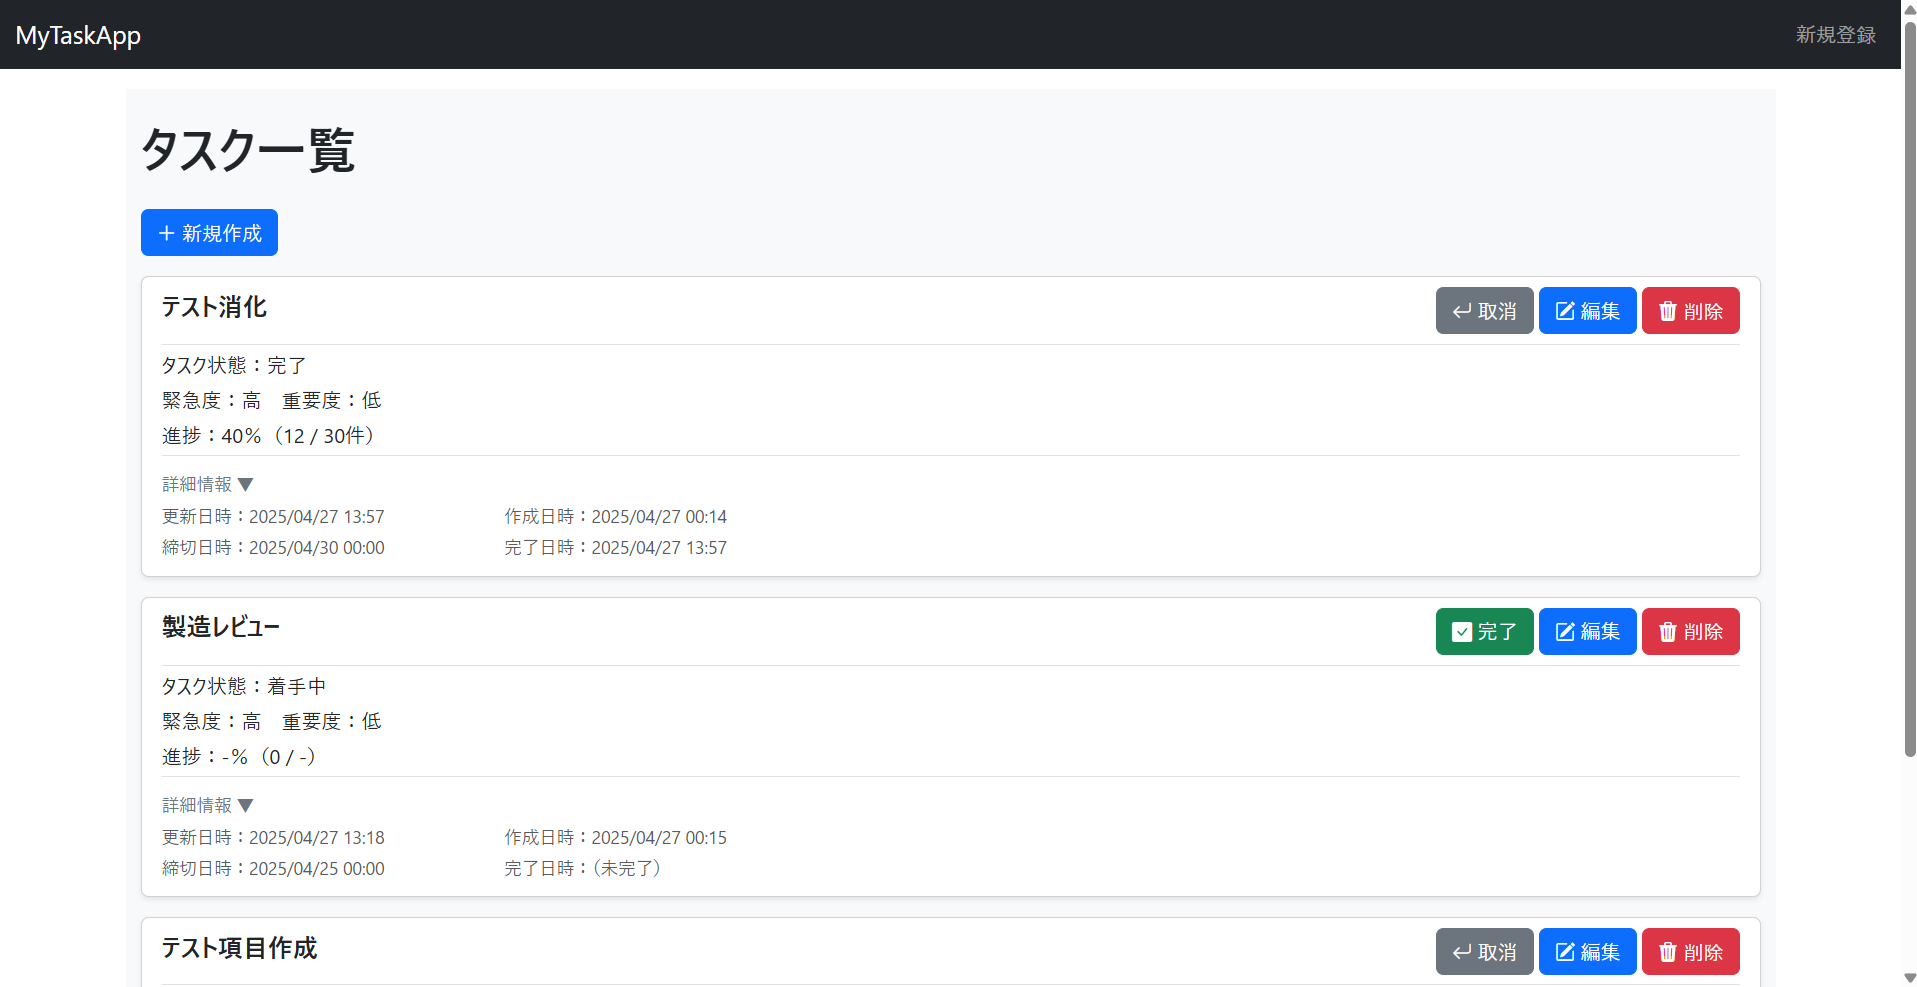
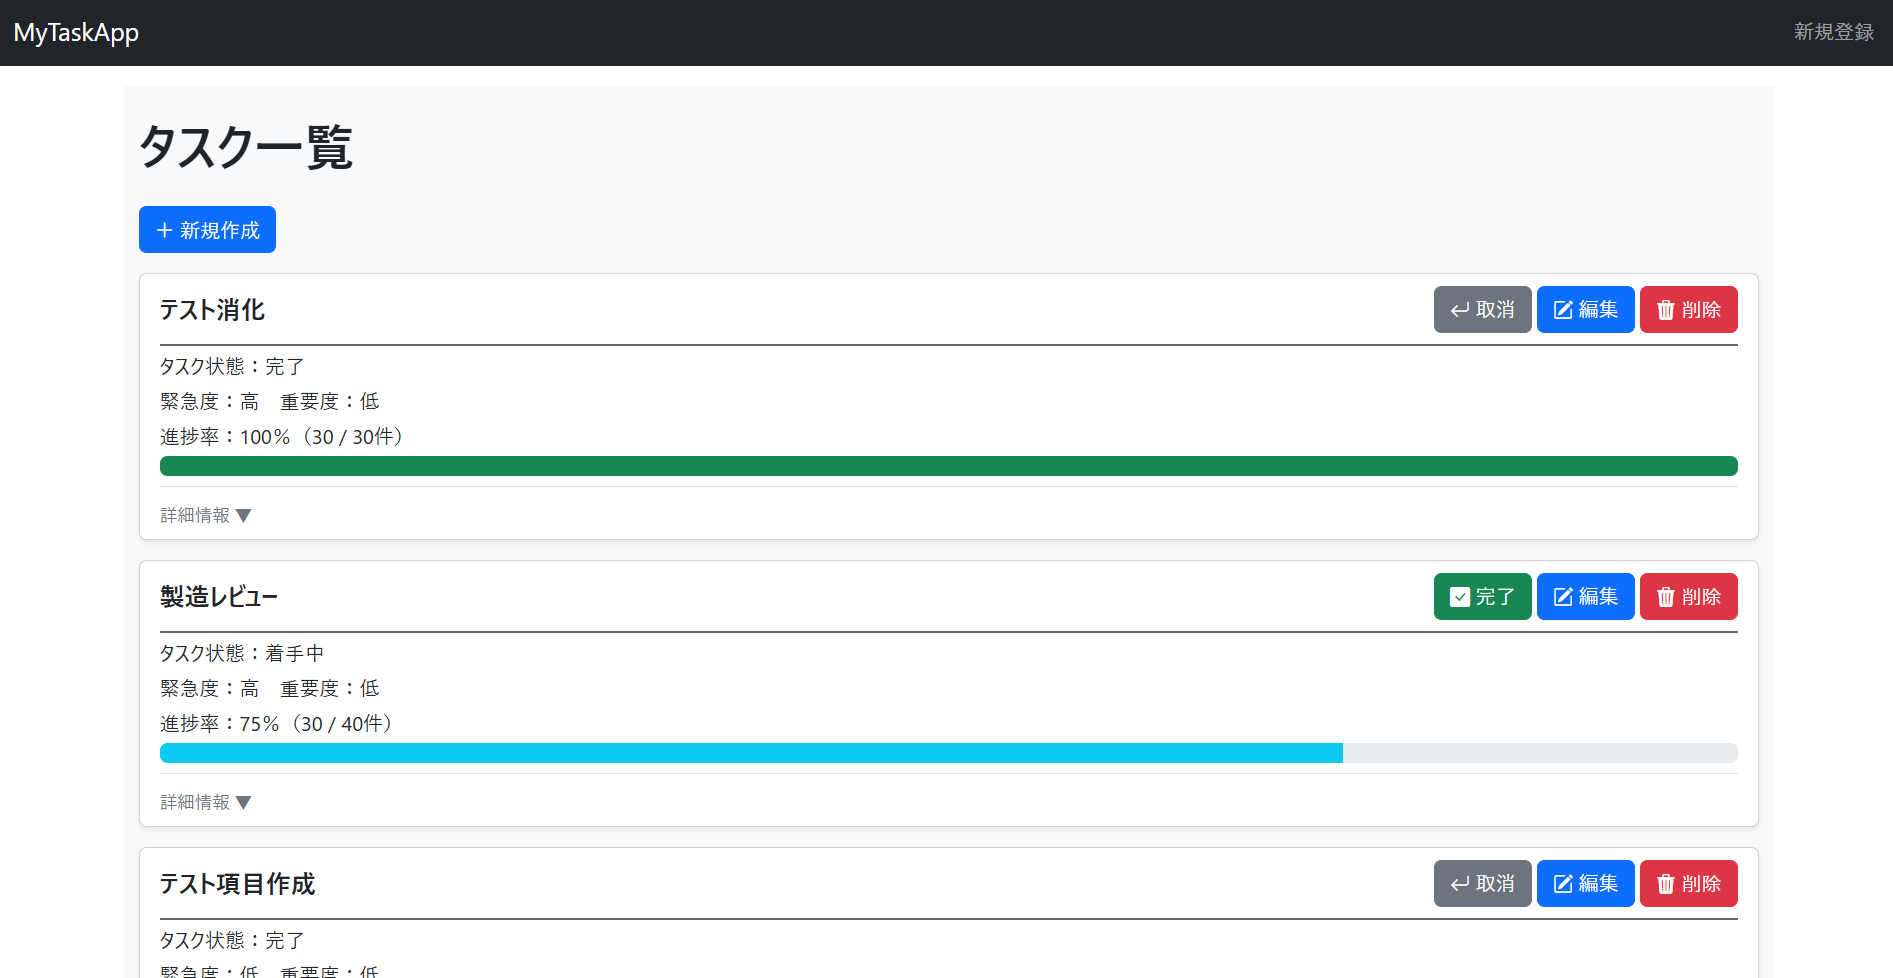
タスク完了時の進捗率補正及び進捗バーの追加

diff --git a/todos/templates/todos/index.html b/todos/templates/todos/index.html
@@ -39,7 +39,12 @@
                 <div class="me-3 mb-1">緊急度：{{ todo.get_urgency_display }}</div>
                 <div class="me-3 mb-1">重要度：{{ todo.get_importance_display }}</div>
               </div>
-              <div class="mb-1">進捗率：{{ todo.progress_percent|default_if_none:'-' }}％（{{ todo.actual_value|default_if_none:'-' }} / {{ todo.target_value|default_if_none:'-' }}{{ todo.unit_display }}）</div>
+              <div class="d-flex flex-wrap">
+                <div class="mb-1">進捗率：{{ todo.progress_percent|default_if_none:'-' }}％（{{ todo.actual_value|default_if_none:'-' }} / {{ todo.target_value|default_if_none:'-' }}{{ todo.unit_display }}）</div>
+              </div>
+              <div class="progress mb-2" role="progressbar" aria-valuenow="{{ todo.progress_percent|default_if_none:'0' }}" aria-valuemin="0" aria-valuemax="100">
+                <div class="progress-bar {{ todo.get_progressbar_color }}" style="width: {{ todo.progress_percent|default_if_none:'0' }}%"></div>
+              </div>
             </div>
 
             <!-- 詳細情報 -->

diff --git a/todos/views.py b/todos/views.py
@@ -59,6 +59,14 @@ def change_complete(request,pk,status):
 
 # タスク完了のチェックをオンにした場合
 def change_complete_true(request, pk):
+    todo = get_object_or_404(Todo, pk=pk)
+    if request.method == 'POST':
+        # 目標値がNoneまたは0の場合実績値の補正を行わない
+        if todo.target_value is not None and todo.target_value != 0:
+            # 実績値がNoneまたは実績値＜目標値の場合、実績値＝目標値（進捗率100%）となるように実績値の補正を行う
+            if todo.actual_value is None or todo.actual_value < todo.target_value:
+                todo.actual_value = todo.target_value
+        todo.save()
     return change_complete(request, pk, 1)
 
 # タスク完了のチェックをオフにした場合

diff --git a/todos/models.py b/todos/models.py
@@ -43,6 +43,20 @@ class Todo(models.Model):
                 return 0
         return None
 
+    # 進捗バーの色を取得する処理
+    @property
+    def get_progressbar_color(self):
+        if self.progress_percent is None:
+            return 'bg-secondary'
+        elif self.progress_percent >= 100:
+            return 'bg-success'
+        elif self.progress_percent >= 70:
+            return 'bg-info'
+        elif self.progress_percent >= 30:
+            return 'bg-warning'
+        else:
+            return 'bg-danger'
+
     # 目標単位が空白の場合は記載しないようにする
     @property
     def unit_display(self):
